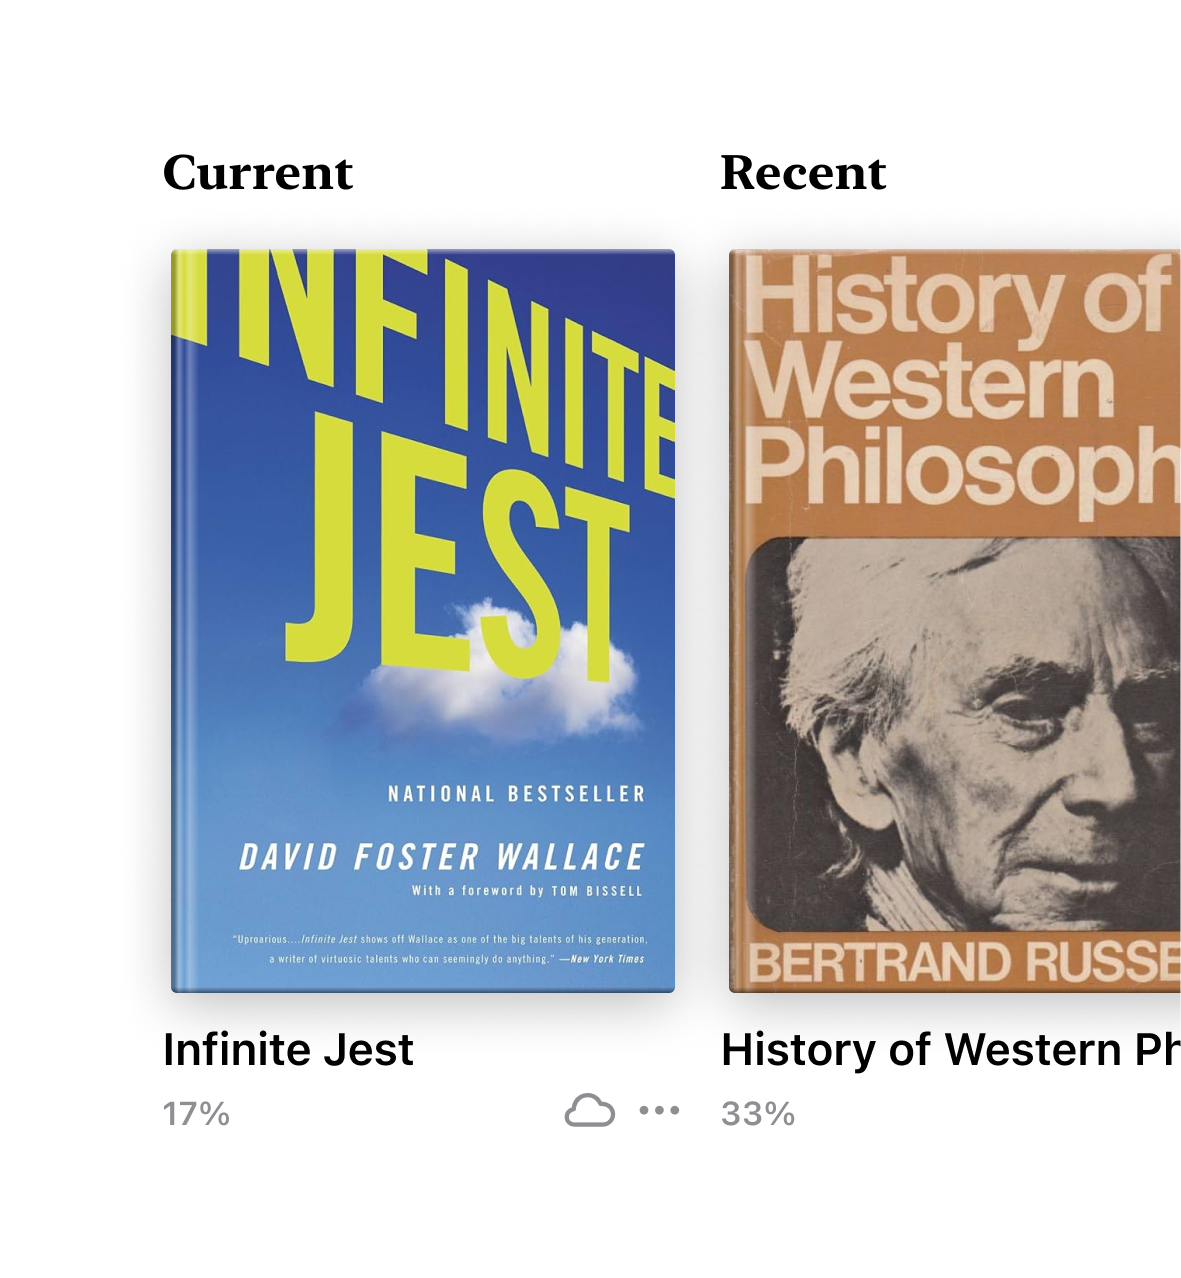
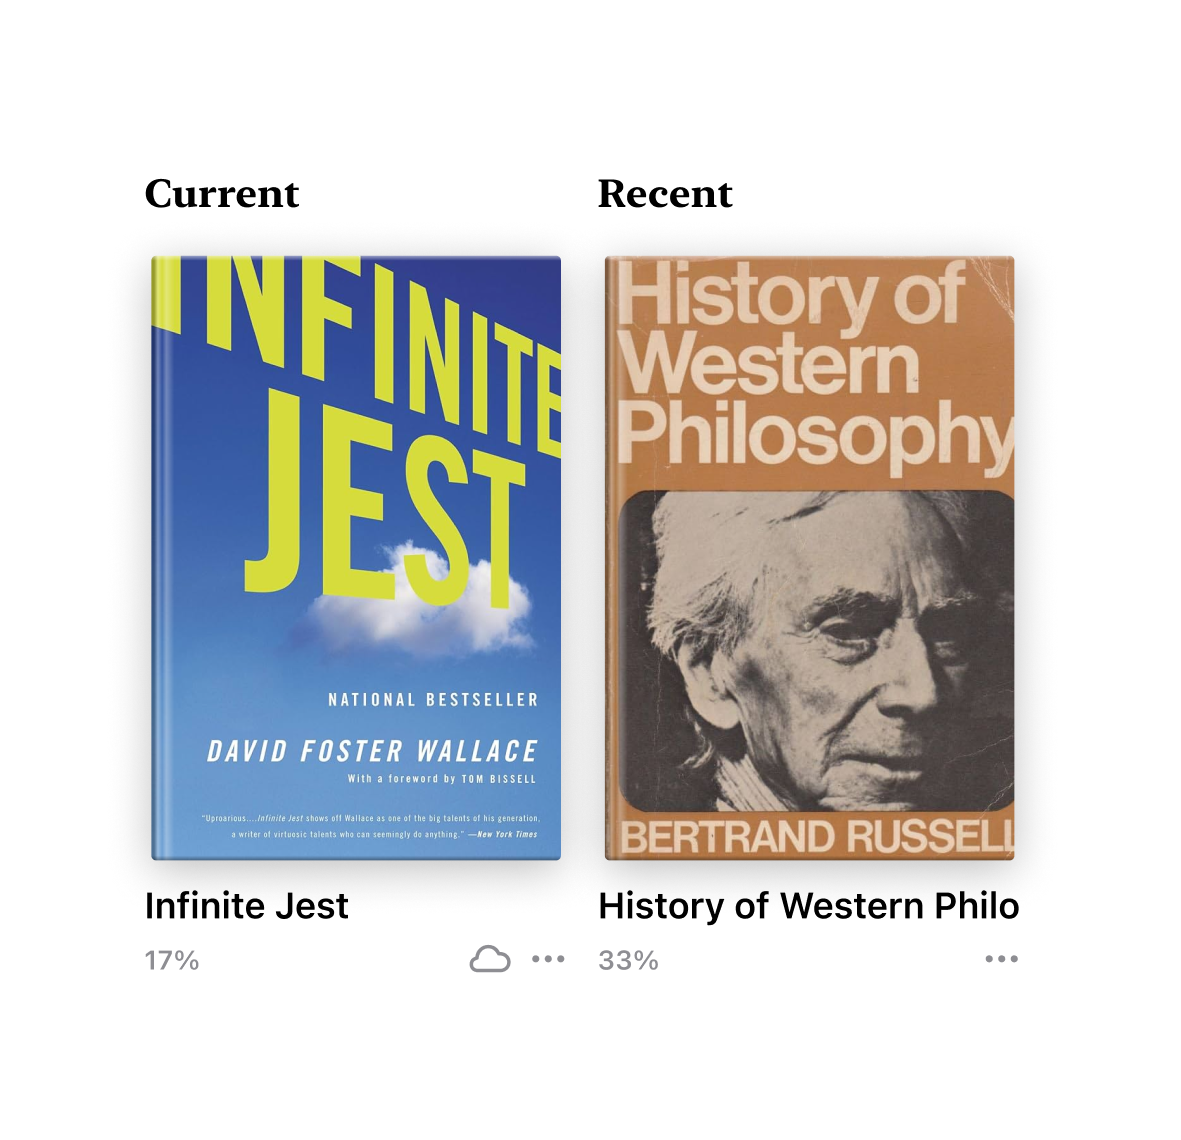
Center the iBooks visual and update the asset
Made-with: Cursor

diff --git a/project-page.css b/project-page.css
@@ -383,7 +383,7 @@ html {
 
 .img-ibooks {
     object-fit: cover;
-    object-position: left center;
+    object-position: center;
 }
 
 .img-dictionary {
